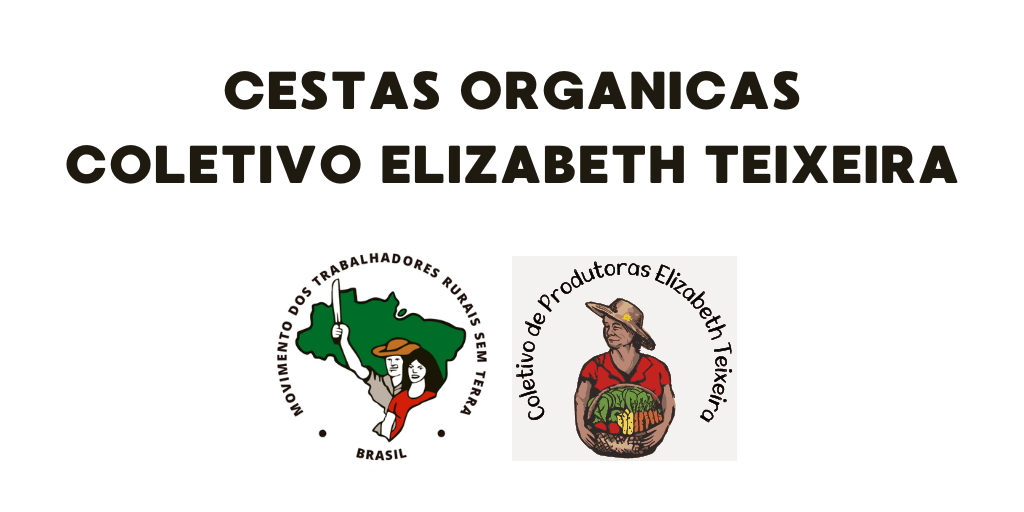
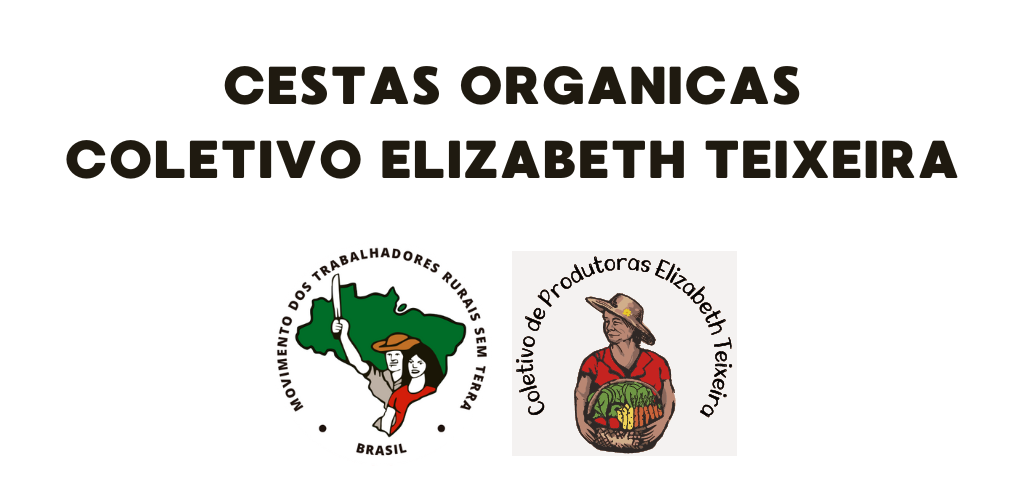
-m "Alteração do Recurso para Play Store" -m "Alterando o tamanho da imagem"

diff --git a/src/screens/IntroSlider.js b/src/screens/IntroSlider.js
@@ -10,38 +10,38 @@ import logoIfsp from '../../assets/images/logoifspcampinas.png';
 const slides = [
   {
     key: '1',
-    title: 'Cestas Cooperflora',
+    title: 'Cestas Elizabeth Teixeira',
     subtitle: 'Barão Geraldo',
     text1:
-      'Bem vindo, bem vinda ao aplicativo  de gestão das cestas Cooperflora do grupo de consumo de Barão Geraldo',
+      'Bem vindo, bem vinda ao aplicativo  de gestão das cestas do Coletivo de Produtoras Elizabeth Teixeira do grupo de consumo de Barão Geraldo',
     text2: 'Versão 3.1.5',
     image1: logoElizabeth,
     image2: logoIfsp,
   },
   {
     key: '2',
-    title: 'Cooperflora',
+    title: 'Elizabeth Teixeira',
     subtitle: 'Barão Geraldo',
     text2:
       'A Cooperflora é uma cooperativa de produtoras e produtores rurais sediada no assentamento Milton Santos fundada em 2015. A  cooperativa tem trabalhado para construir um mercado de consumo consciente da sua produção fornecendo, em bases semanais, a venda de cestas  agroecológicas de seus produtos para grupos de consumo. Os produtores da Cooperflora são certificados pela OCS - Organização de Controle Social.\n\nUm grupo de consumo é um conjunto de pessoas que se juntam para comprar os produtos orgânicos da cooperativa em uma relação que não é apenas comercial, mas é de valorização da produção familiar orgânica.',
   },
   {
     key: '3',
-    title: 'Cooperflora',
+    title: 'Elizabeth Teixeira',
     subtitle: 'Barão Geraldo',
     text2:
-      'Como funciona.\n\n1. A pessoa entra em contato com grupo de consumo e pede sua inclusão.\n\n2. A organização do grupo entra em contato passando as informações e solicitando um e-mail da pessoa.\n\n3. Com o e-mail previamente cadastrado pela cooperativa a pessoa pode acessar o aplicativo. ',
+    'Como funciona.\n\n1. A pessoa entra em contato com grupo de consumo e pede sua inclusão.\n\n2. A organização do grupo entra em contato passando as outras informações e solicitando um e-mail da pessoa.\n\n3. Com o e-mail previamente cadastrado pela cooperativa a pessoa pode acessar o aplicativo.',
   },
   {
     key: '4',
-    title: 'Cooperflora',
+    title: 'Elizabeth Teixeira',
     subtitle: 'Barão Geraldo',
     text2:
       'O projeto.\n\nEste aplicativo foi desenvolvido através de um projeto de extensão do Instituto Federal de São Paulo campus Campinas.\n\nIFSP Campinas.\n\nO Instituto Federal de Educação, Ciência e Tecnologia de São Paulo - IFSP - é uma autarquia federal de ensino fundada em 1909, como de Aprendizes Artífices. O IFSP é vinculado ao Ministério da Educação (MEC), é reconhecido por sua excelência no ensino público e atuação prioritária na oferta de educação tecnológica.',
   },
   {
     key: '5',
-    title: 'Cooperflora',
+    title: 'Elizabeth Teixeira',
     subtitle: 'Barão Geraldo',
     text2:
       'Organização do grupo de consumo de Barão Geraldo.\n\n Contato: cooperflorabarao@gmail.com\n\nEquipe de Desenvolvimento\n\nCoordenação: André Luís Bordignon \n\nDesenvolvimento: Vinicius Costa Regaço\n\nDesign: Mateus Santos Magalhães\n\nBolsistas: Luana Matallo Ruggiero, Rafael Almeida, Yasmin Souza Lima',
